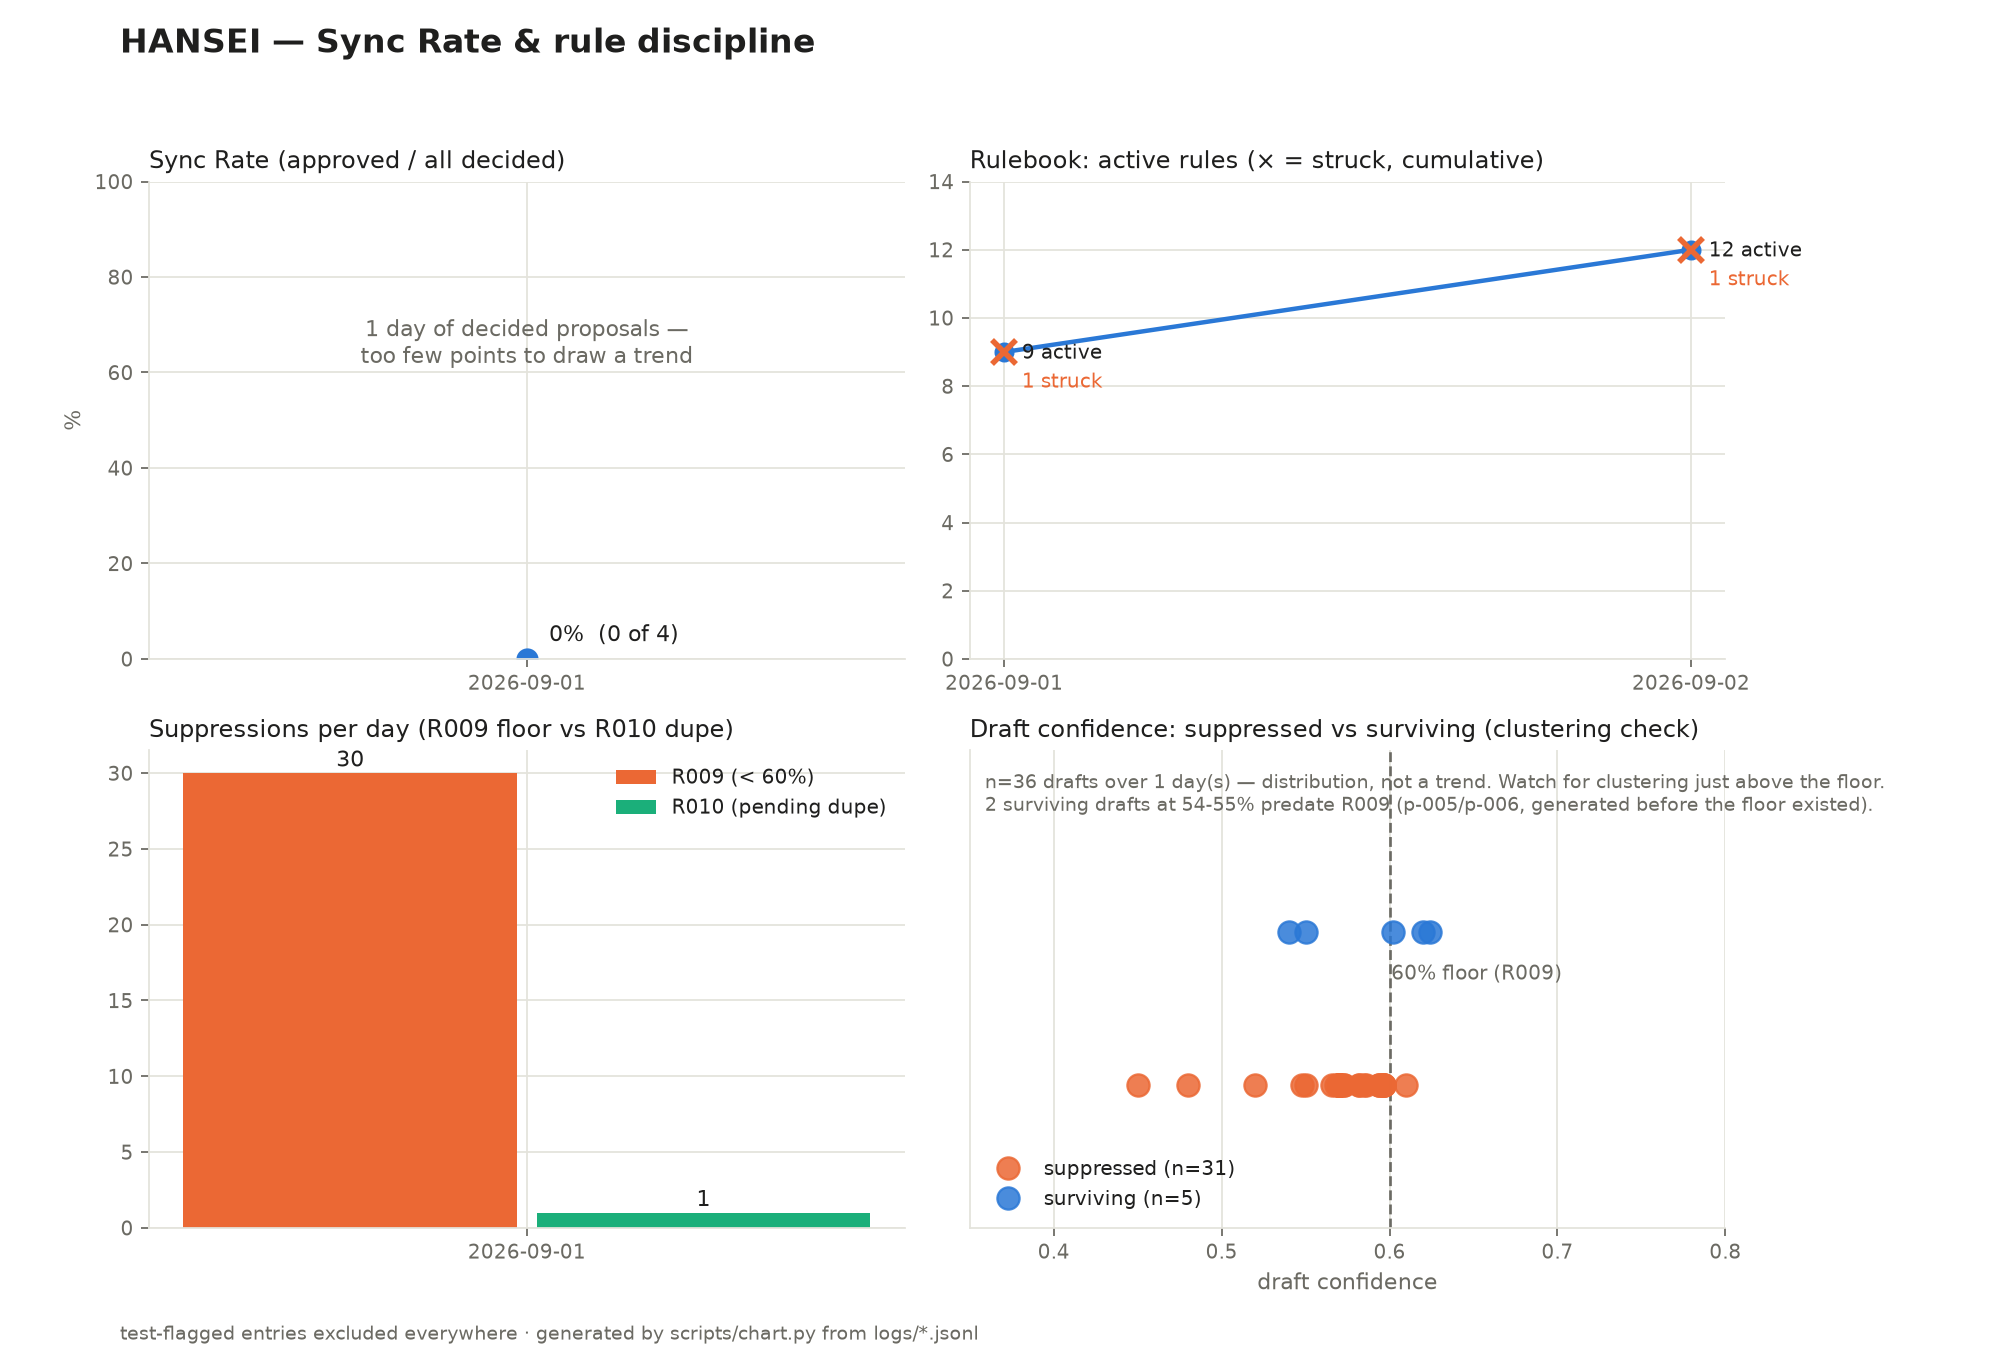
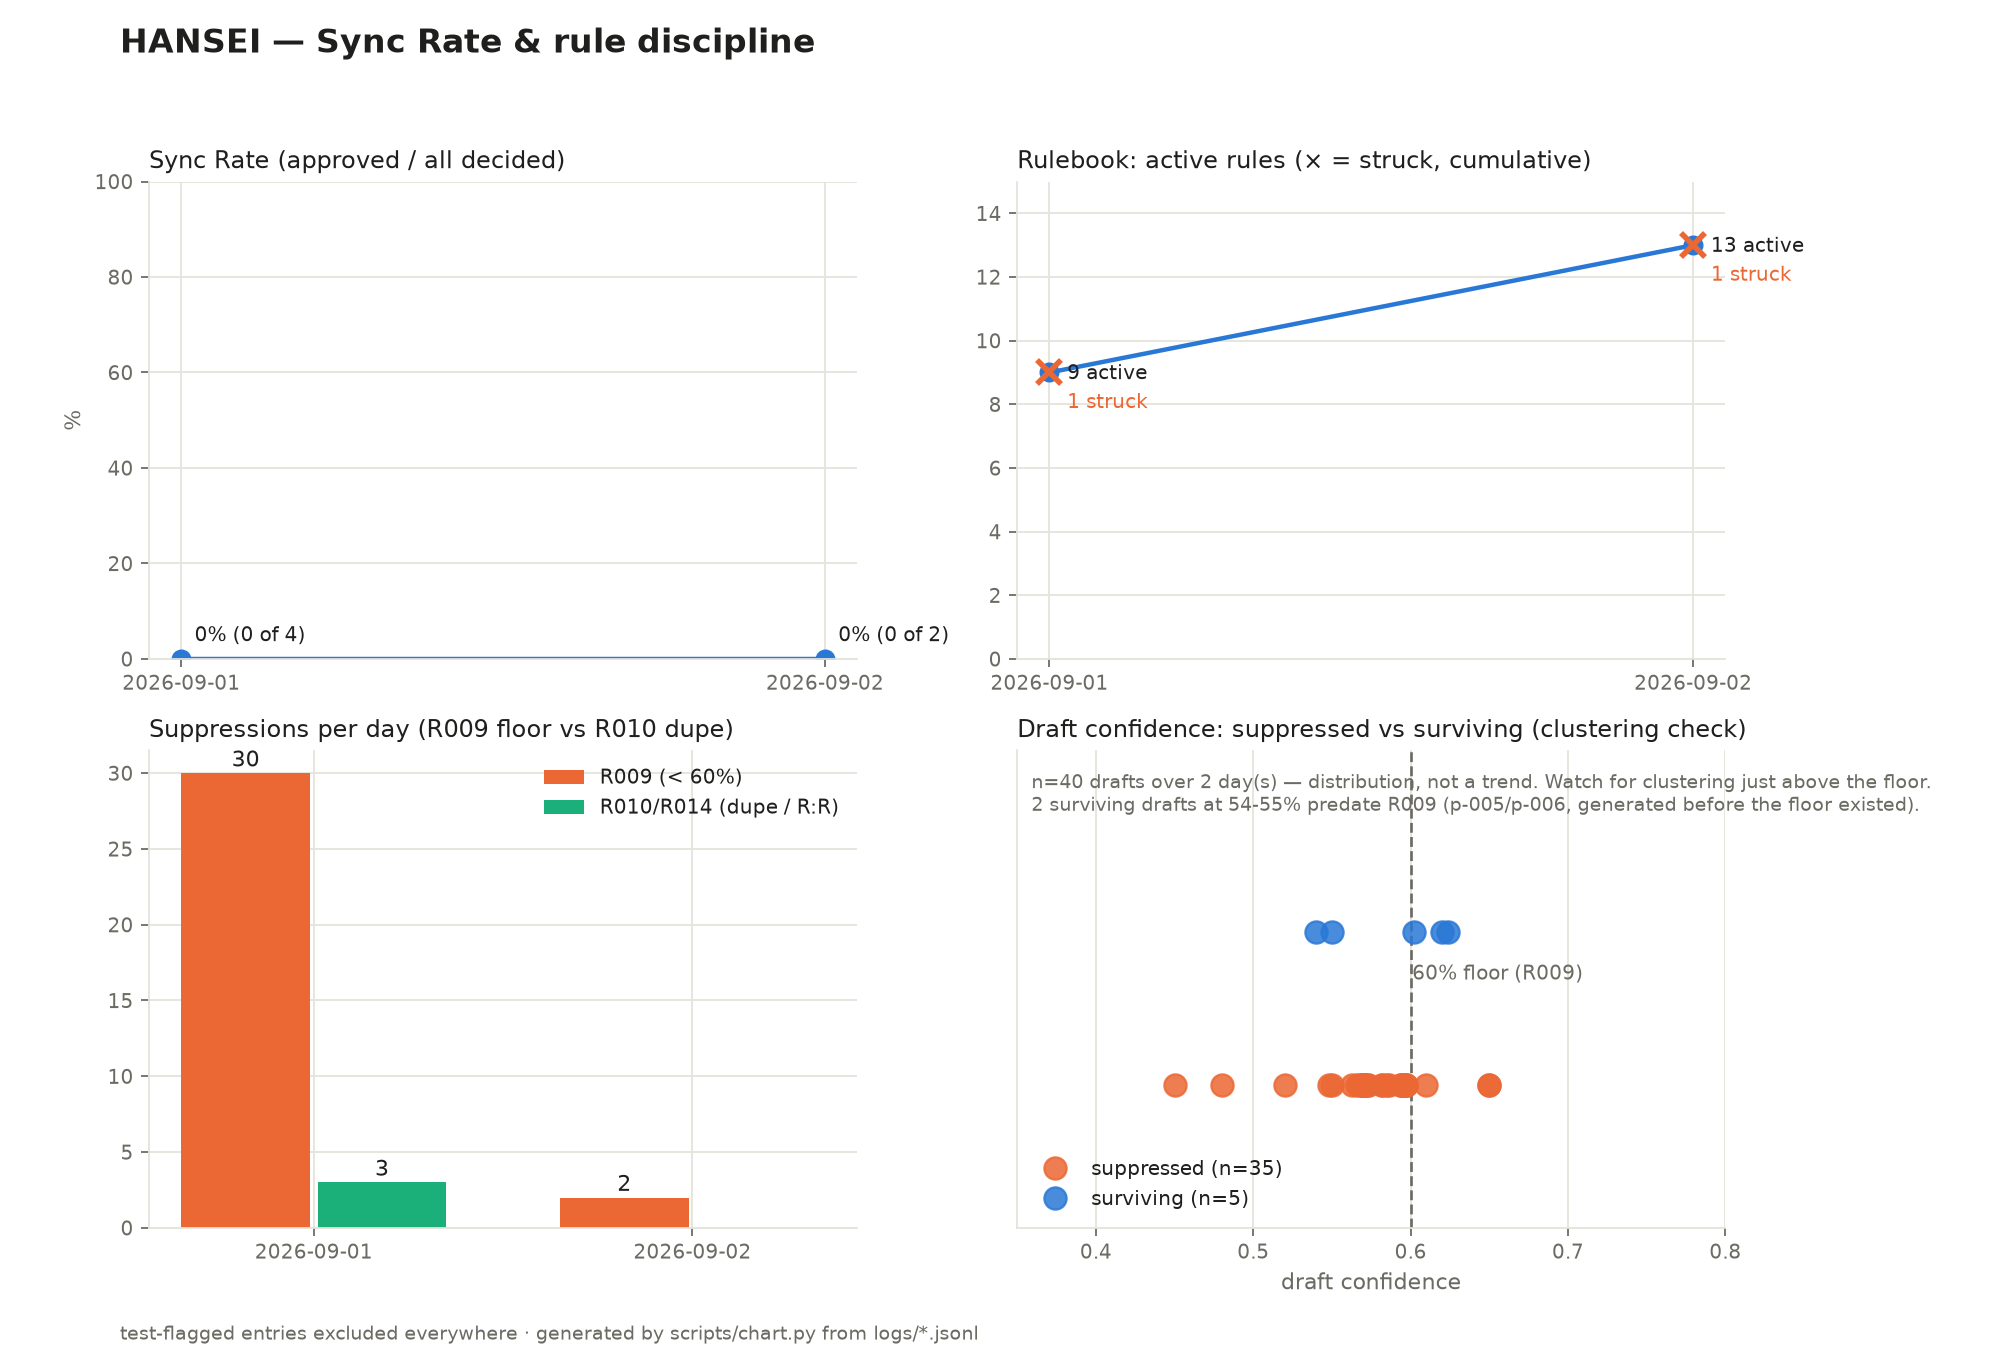
verdicts: FIL and CRV rejected CONVICTION; chart handles R014 suppressions
Claude-Session: https://claude.ai/code/session_01DKysYJapHQqHkZXqU97iRM

diff --git a/scripts/chart.py b/scripts/chart.py
@@ -143,7 +143,7 @@ def main():
     ax = axes[1][0]
     ax.set_title("Suppressions per day (R009 floor vs R010 dupe)", color=INK,
                  fontsize=11, loc="left")
-    per_day = defaultdict(lambda: {"R009": 0, "R010": 0})
+    per_day = defaultdict(lambda: defaultdict(int))
     for s in suppressed:
         per_day[day_of(s)][s["rule"]] += 1
     days = sorted(per_day)
@@ -155,9 +155,9 @@ def main():
         x = np.arange(len(days))
         w = 0.34
         r9 = [per_day[d]["R009"] for d in days]
-        r10 = [per_day[d]["R010"] for d in days]
+        r10 = [per_day[d]["R010"] + per_day[d]["R014"] for d in days]
         b1 = ax.bar(x - w / 2 - 0.01, r9, w, color=ORANGE, label="R009 (< 60%)")
-        b2 = ax.bar(x + w / 2 + 0.01, r10, w, color=AQUA, label="R010 (pending dupe)")
+        b2 = ax.bar(x + w / 2 + 0.01, r10, w, color=AQUA, label="R010/R014 (dupe / R:R)")
         for bars in (b1, b2):
             for rect in bars:
                 if rect.get_height():
